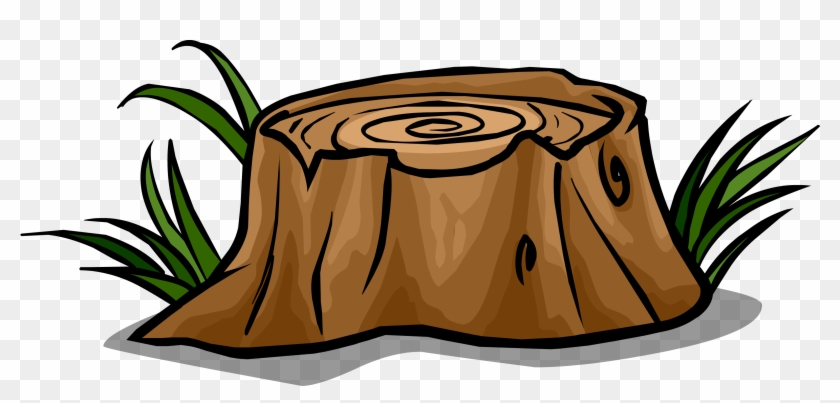
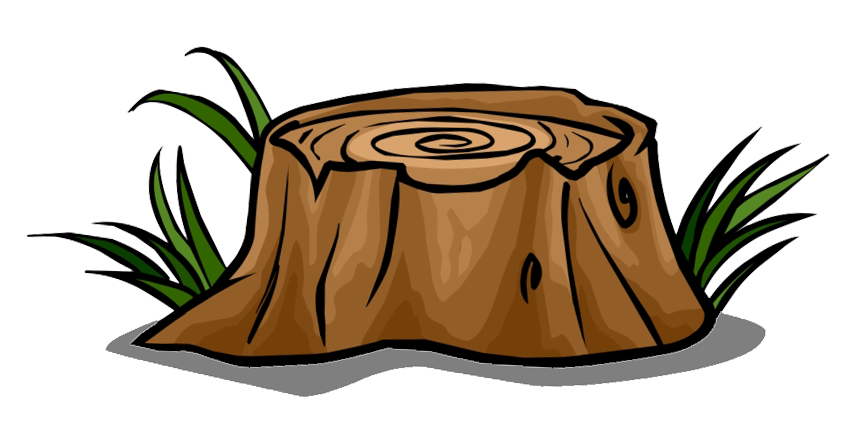
trunk visuals

diff --git a/direct2d/obstacle.cpp b/direct2d/obstacle.cpp
@@ -37,8 +37,8 @@ void Obstacle::show()
 	if (stone2 != NULL)
 		stone2->Draw(x, y - height + 170*size, size);
 	if (trunk != NULL)
-		trunk->Draw(x, y - height, size);
-	gfx->DrawRectangle(rect);
+		trunk->Draw(x, y - height - 50*size, size);
+	// gfx->DrawRectangle(rect);
 
 }
 
@@ -53,6 +53,8 @@ void Obstacle::update(double speed)
 			rect = { x+170*size , y - height+50*size, x + width - 150*size, y };
 		if(stone2)
 			rect = { x + 120 * size , y - height + 220 * size, x + width - 150 * size, y };
+		if(trunk)
+			rect = { x + 200 * size , y - height + 100 * size, x + width - 150 * size, y };
 	}
 	else {
 		rect = { x, (y - height / 2) - 200 , x + width, (y + height / 2) - 200 };
@@ -69,8 +71,8 @@ void Obstacle::renew()
 	float heighta = height;
 	
 	if (!ownSprite) {
-		//dist(rng) % 3
-		switch (2) {
+		
+		switch (dist(rng) % 3) {
 		case 0:
 			size = float(dist(rng) %5)/10 + 0.25f;
 			stone = new SpriteSheet(L"stone.png", gfx, 1.0f);
@@ -88,7 +90,7 @@ void Obstacle::renew()
 			trunk = NULL;
 			break;
 		case 2:
-			size = float(dist(rng) % 4) / 10 + 0.15f;
+			size = float(dist(rng) % 3) / 10 + 0.15f;
 			width = 840 * size;
 			height = spriteHeights[2] * size;
 			stone = NULL;

diff --git a/direct2d/Game.cpp b/direct2d/Game.cpp
@@ -178,11 +178,12 @@ void Game::ComposeFrame()
 		carrot->show();
 
 
-		
+		/*
 		D2D1_RECT_F a = bunny->returnPos();
 		D2D1_RECT_F b = obj->returnPos();
 		gfx->DrawRectangle(a);
 		gfx->DrawRectangle(b);
+		*/
 		
 
 		if(bunny->isCrouched())
